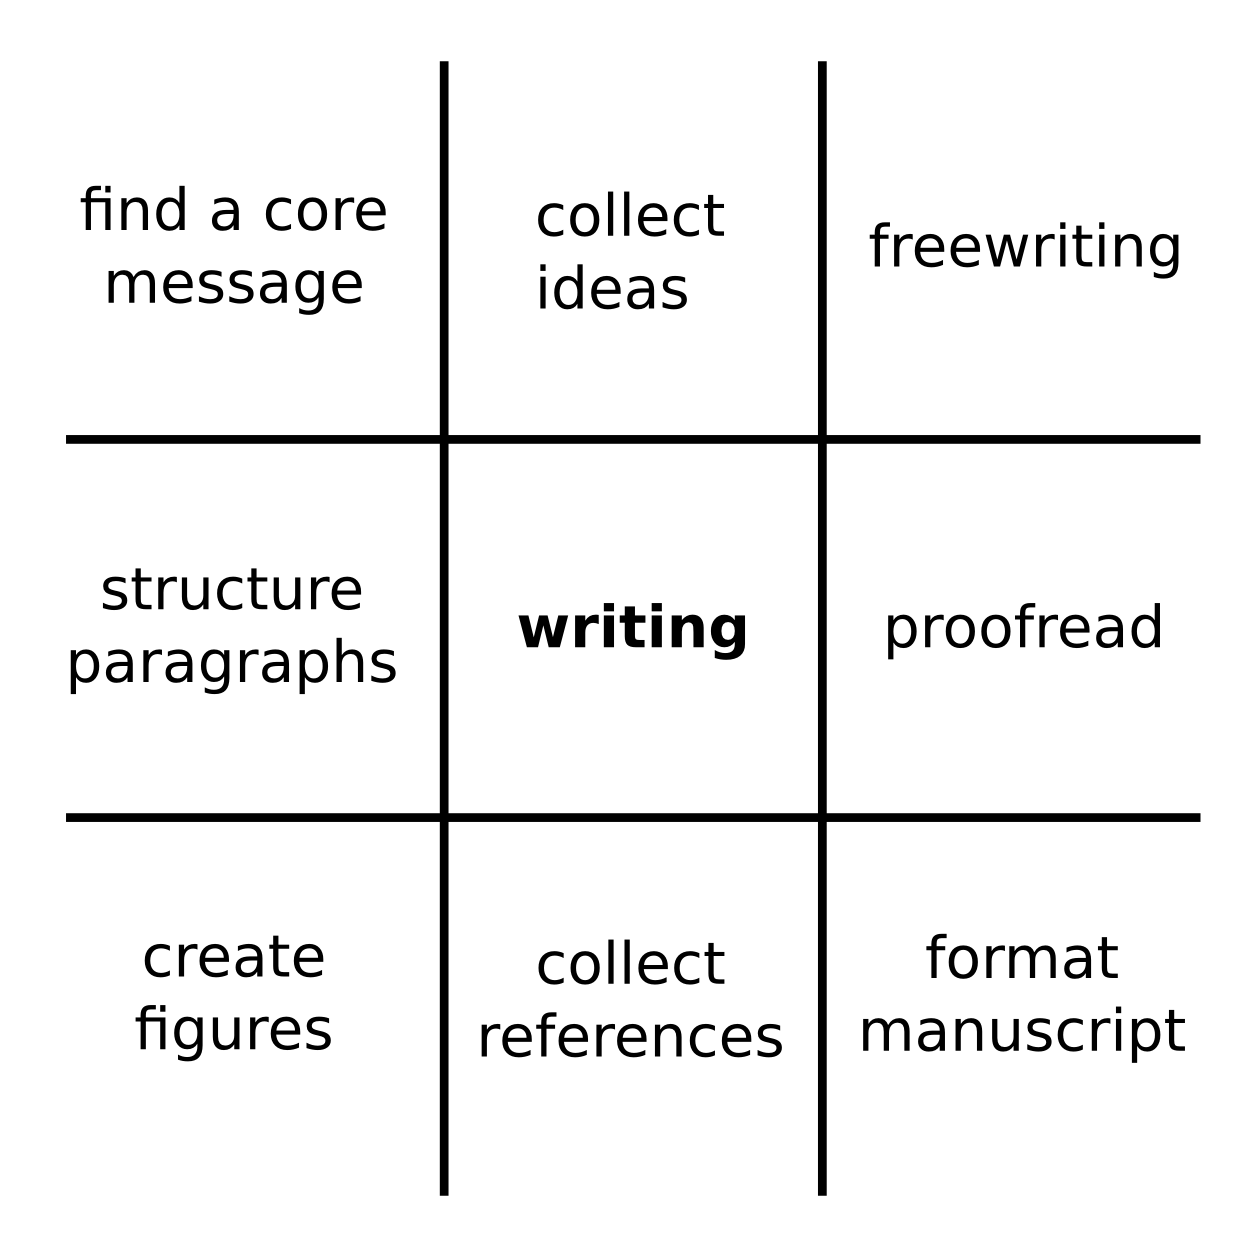
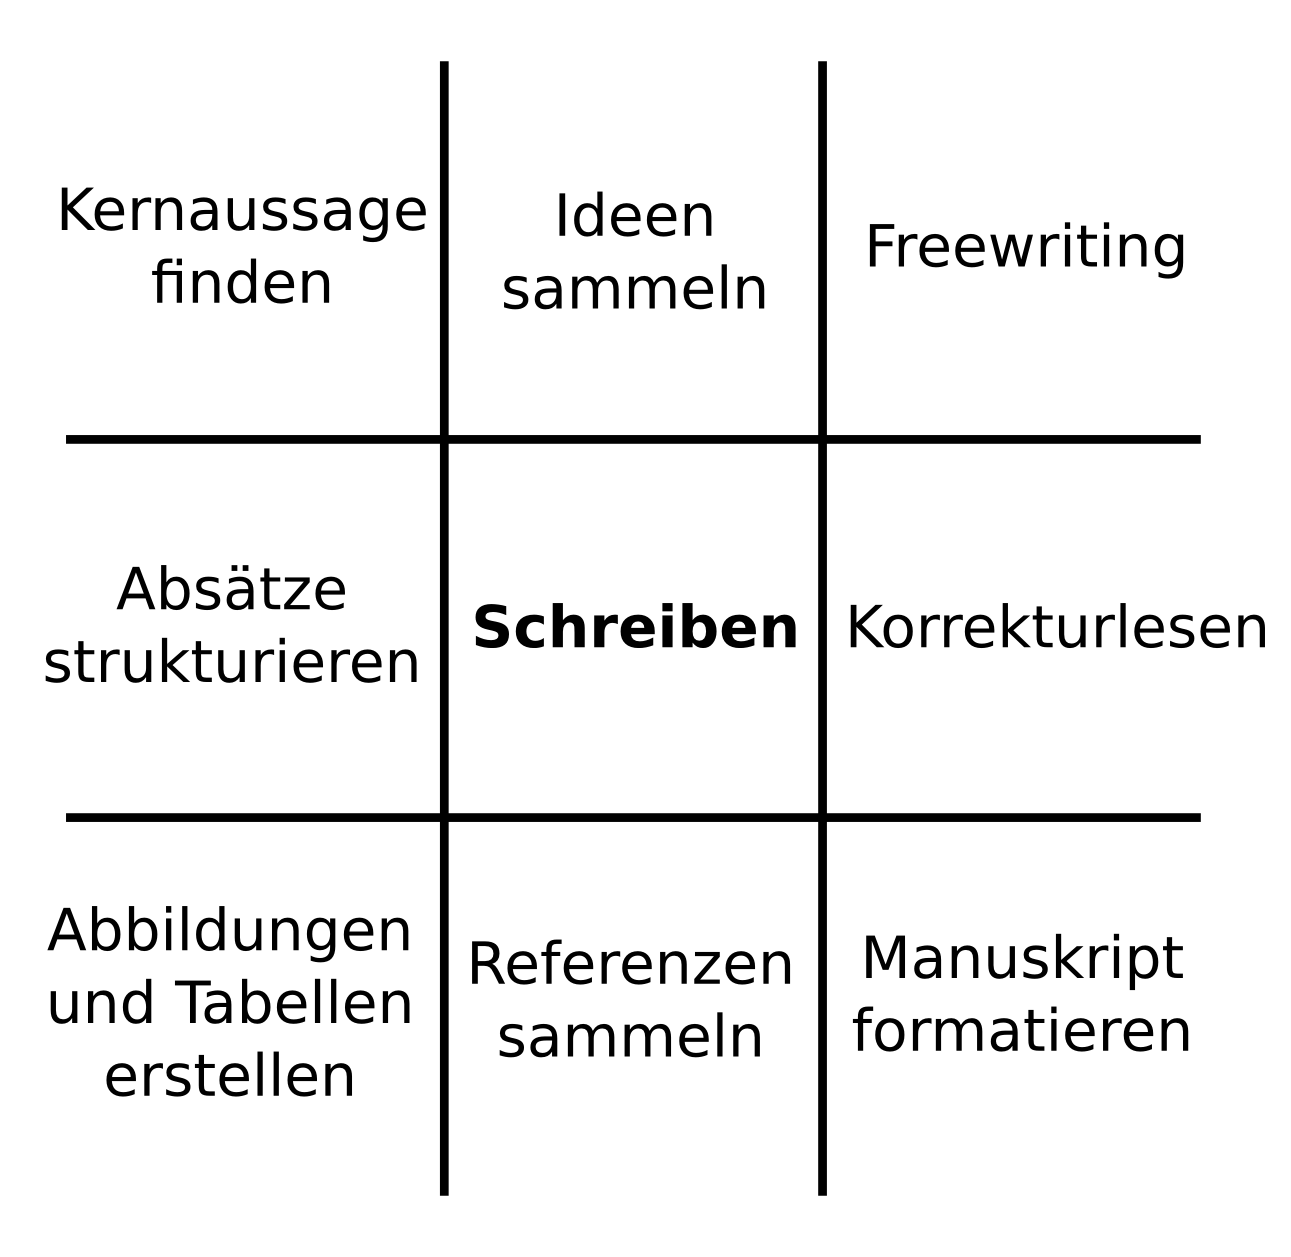
artikel '9 wege' hinzugefügt

diff --git a/neun_arten_zu_schreiben.md b/neun_arten_zu_schreiben.md
@@ -1,18 +1,51 @@
 
-# Neun Arten zu schreiben
+# Neun verschiedene Arten zu schreiben
 
-When I was writing my first paper, I thought writing meant sitting in front of a keyboard, starting to type and continuing until the paper was done. Not surprisingly, frequently this approach did not work, and I experienced what is called a writers block. It took me years to realize that writing as a process is much more complex. Writing a paper includes many activities, only some of which involve typing. Here are nine of them:
+**Kristian:** *"Als ich meinen ersten Fachartikel schrieb, dachte ich, Schreiben hieße vor einer Tastatur zu sitzen und zu tippen bis der Text fertig sei. Das funktionierte häufig *überhaupt nicht*, und das Ergebnis war eine solide Schreibblockade. Ich habe Jahre gebraucht, um zu verstehen, daß der Schreibprozess viel komplexer ist. Einen wissenschaftlichen Text zu verfassen erfordert viele verschiedene Tätigkeiten, und Tippen ist nur eine davon. 
+
+Ich habe insgesamt neun gesammelt:
 
 ![9 Wege zu schreiben](writing_modes.png)
 
-    Find a core message - What is your article trying to say? Many writing guides recommend you can have only one message per article. How would you summarize your paper in one sentence?
-    Collect ideas - To write reasonable science, you need raw material: facts, observations, references. Collecting your raw material means reading literature, reviewing your own notes and brainstorming points you could write.
-    Freewriting - A way to generate text from scratch. Set a timer to 10 minutes. Start writing. Do not stop before time runs out. Freewriting means you write a lot of crap. You probably will anyway. But Freewriting gets you through the crap stage faster.
-    Structure paragraphs - Systematicall construct your text in a top-down fashion. Divide a section into paragraphs. For each paragraph construct an opening and a closing sentence. Add a few main points. Then move to the next paragraph etc.
-    Writing - Sitting at the keyboard and wrestling with single words and sentences is still part of the game. Make sure yo have a coffee to sip, a cat to stroke, a pen to gnaw.
-    Proofread - Indispensable when quality is to come your way. Read your text. Edit. Read it again. Check grammar. Check flow between paragraphs. Double-check facts.
-    Create figures - Many scientists recommend to start with the figures. If your figures tell a coherent story, the text in between will be easier to write.
-    Collect references - You could argue that writing starts when you start collecting literature. Make sure you use a reference manager as soon as you have more than three references. It doesn't matter whether you are using Mendeley, EndNote, BibTeX or a text file with PMIDs. All four will save you hours.
-    Format the manuscript - make everything look nice and make sure you follow the guidelines of the journal by the letter. Once you arrive here, you are rolling downhill.
+#### Finde die Kernbotschft
 
-You can spend your time in at least these nine ways while writing a paper. Before your manuscript is finished, you will move through each square of the diagram a few times. Realizing that gives you a recipe against writers' block: If what you are doing doesn't work out, switch to a different activity.
+Was versuchst Du mit Deiner Arbeit, Deinem Kapitel, Deinem Absatz zu sagen. Viele Ratgeber zum Schreiben empfehlen nur eine Kernbotschaft auf einmal zu vermitteln. Wie würdest Du Deinen Text in eimen prägnanten Satz zusammenfassen?
+
+#### Sammle Ideen
+
+Um gute wissenschaftliche Texte zu schreiben, benötigst Du Rohmaterialien: Fakten, Beobachtungen, Zahlen, Referenzen. Dieses Rohmaterial zu sammeln bedeutet, daß Du Deine Notizen und Ergebnisse durchgehst und Literatur liest und dabei einzelne Punkte aufschreibst, die Du genauer ausführen könntest.
+
+#### Freewriting
+
+Freewriting ist eine Methode, um Text aus dem Nichts zu erschaffen. Stelle eine Stoppuhr auf 10 Minuten. Fange an zu schreiben. Höre nicht auf zu schreiben bevor die 10 Minuten um sind, auch nicht wenn Dir nur Müll einfällt. Freewriting bedeutet, daß Du eine Menge Müll schreiben wirst. Es ist normal unstrukturiert zu schreiben, bevor sich Deine Gedanken sortieren. Freewriting hilft Dir, diese unstrukturierte Phase schneller hinter Dir zu lassen.
+
+#### Absätze strukturieren
+
+Konstruiere Deinen Text nach dem Top Down Ansatz. Teile einen Textabschnitt in Absätze. Stelle für jeden Absatz eine Kernaussage und einige Hauptpunkte auf. Finde einen Einleitungs- und Schlußsatz. Dann nimm Dir den nächsten Absatz vor usw.
+
+#### Schreiben
+
+An der Tastatur zu sitzen und mit Sätzen und einzelnen Wörtern zu ringen gehört immer noch dazu, egal wie viele Schreibtechniken Du beherrschst. Sorge dafür daß Du in diesen Momenten ungestört bist, Deinen Lieblingskaffeebecher oder Deine Katze dabei hast und es genug Bleistifte zum Abknabbern gibt.
+
+### Korrekturlesen
+
+Wenn Dir irgend etwas an Qualität gelegen ist, kommst Du um intensives Korrekturlesen nicht herum. Lies Deinen Text. Editiere ihn. Lies ihn noch einmal, am Besten nach einer Pause. Überprüfe Rechtschreibung und Grammatik. Überprüfe den Textfluß von einem Absatz zum nächsten. Überprüfe die Fakten doppelt und dreifach.
+
+Andere Leute sind oft bessere Korrekturleser als Du selbst, weil sie Deinen Text aus einem ähnlichen Abstand sehen können wie Deine Gutachter.
+
+#### Abbildungen erstellen
+
+Viele Wissenschaftler empfehlen, mit den Abbildungen anzufangen. Wenn Deine Abbildungen und Tabellen eine zusammenhängende Geschichte erzählen, ist der Text dazwischen viel einfacher zu schreiben. 
+
+#### Referenzen sammeln
+
+Man könnte sagen, daß das Schreiben in dem Moment anfängt, in dem Du Dich anfängst mit der Literatur zu beschäftigen. Fange an, einen Referenzmanager zu verwenden, sobald Du mehr als Drei Literaturstellen gesammelt hast. Es ist nicht wichtig, ob Du Mendeley, EndNote, BibTex oder einen Texteditor mit PMIDs verwendest. Alle vier Methoden können Dir viele Stunden entnervter Arbeit ersparen.
+
+#### Formatieren des Manuskripts
+
+Sorge dafür, daß Dein Manuskript gut aussieht und Du die Richtlinien der Zeitschrift oder Deines Prüfungsbüros akribisch befolgst. Normalerweise ist das Formatieren etwas für die Endphase, aber es ist nicht verkehrt, zwischendurch ab und zu aufzuräumen.
+
+
+Du kannst Deine Zeit beim Schreiben mindestens auf diese neun Arten verbringen. Bevor Dein Manuskript fertig ist, wirst Du Dich mehrmals durch jedes Feld im Diagramm bewegen.
+
+Das Diagramm ist auch ein Rezept gegen Schreibblockaden: Sobald Du merkst, daß was immer Du tust nicht so gut funktioniert, ist es höchste Zeit, zu einer anderen Tätigkeit im Diagramm zu wechseln.

diff --git a/sechs_wege_nie_fertig_zu_werden.md b/sechs_wege_nie_fertig_zu_werden.md
@@ -26,7 +26,7 @@ Für eine intelligente Person ist es leicht, Buchstaben in einen Computer zu hac
 
 ## 3. Dein Fortschritt ist beliebig reproduzierbar
 
-**„Gestern habe ich drei Seiten geschafft, das mache ich heute noch einmal.”
+**„Gestern habe ich drei Seiten geschafft, das mache ich heute noch einmal.”**
 
 Deine Aufgabe ist es, eine bestimmte Anzahl von Seiten zu produzieren. Eine Seite ist eine bestimmte Anzahl Zeilten, Wörter, Buchstaben. Du kannst also Deinen Fortschritt objektiv messen. Wenn Du an einem Tag eine bestimmte Menge Text schreibst, kannst Du am nächsten Tag genauso viel fertig bringen. Es kommt nicht darauf an, daß manche Seiten mit Abbildungen, Tabellen und Aufzählungen voll sind, und andere schwierige Gedankengänge beinhalten.
 

diff --git a/SUMMARY.md b/SUMMARY.md
@@ -2,10 +2,10 @@
 * [Sechs Wege, nie fertig zu werden](sechs_wege_nie_fertig_zu_werden.md)
 * [Struktur einer Bachelorarbeit](struktur_bachelorarbeit.md)
 * [Top-down vs. Bottom-up](top_down_vs_bottom_up.md)
+* [Neun verschiedene Arten zu schreiben](neun_arten_zu_schreiben.md)
 * [Abschluß und Druck](abschluss_und_druck.md)
 
 # * [Die Kernbotschaft](die_kernbotschaft.md)
-# * [Neun Arten zu schreiben](neun_arten_zu_schreiben.md)
 # * [Arbeiten mit Word](arbeiten_mit_word.md)
 # * [Literaturreferenzen](literaturreferenzen.md)
 

diff --git a/README.md b/README.md
@@ -1,7 +1,7 @@
 
 # Der Weg zur Bachelorarbeit
 
-Hinweise zum Schreibprozess und zur Arbeit mit einem Schreibprogramm
+Hinweise zum Schreiben einer wissenschaftlichen Arbeit und zur Verwendung von Schreibprogrammen
 
 
 ![Feder](images/feather.png)
